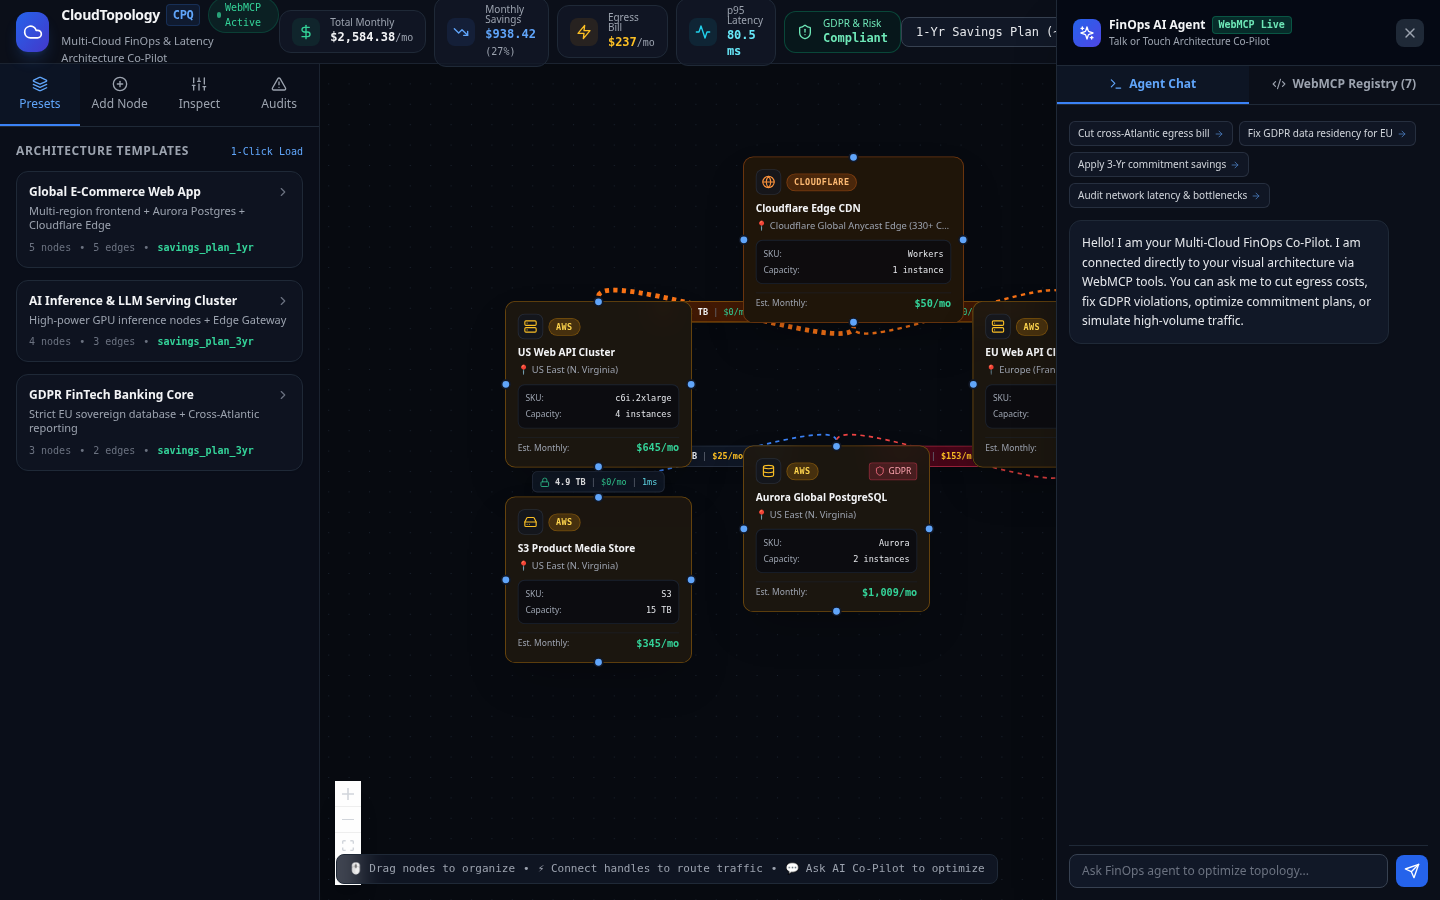
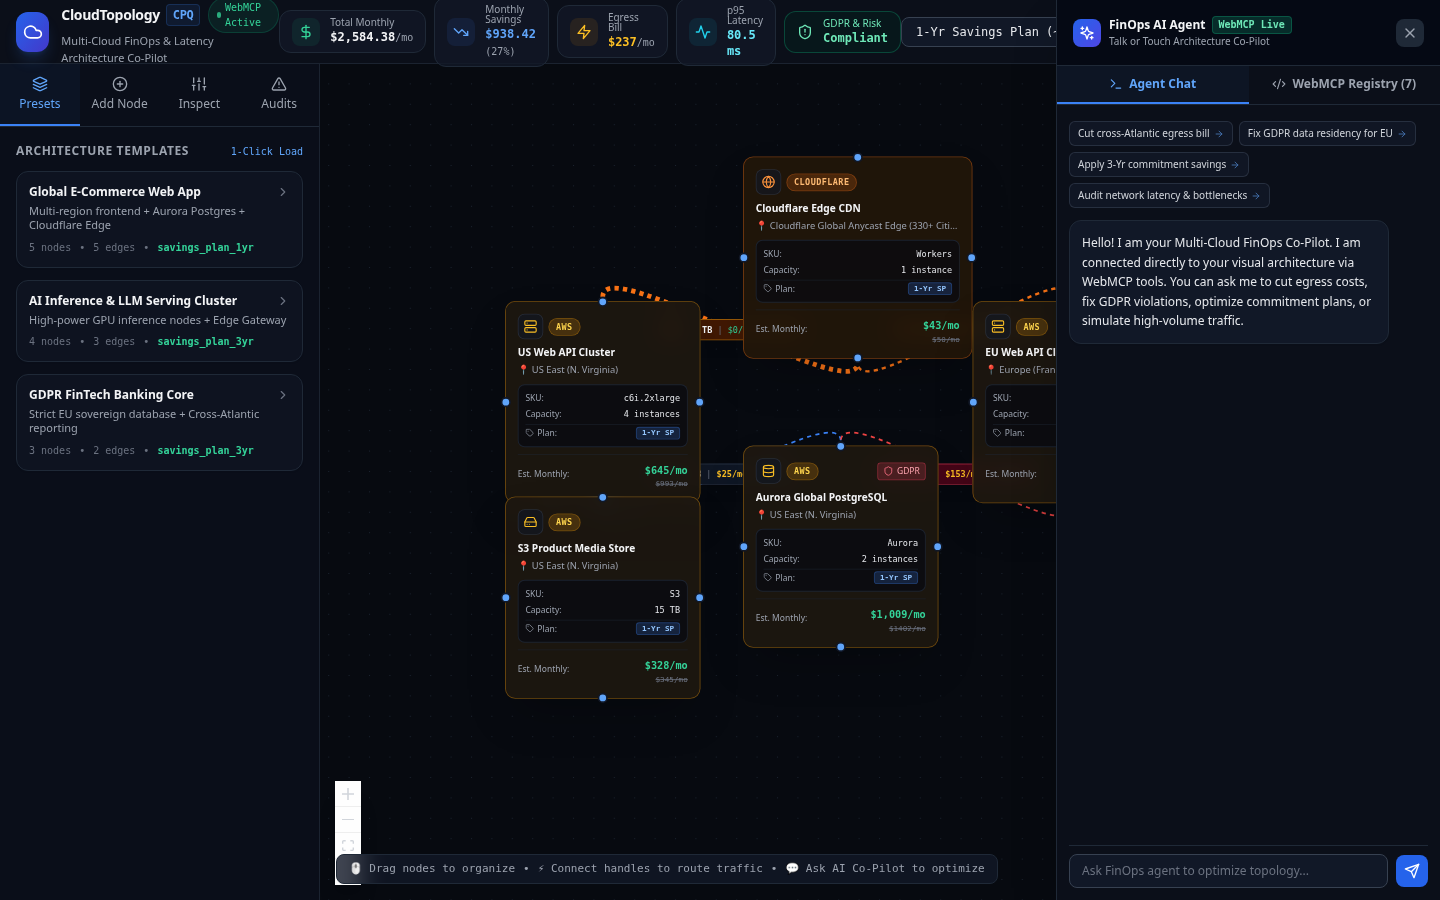
feat: Add per-node pricing tier configuration and dynamic baseline strikethrough prices

diff --git a/src/components/CustomNode.tsx b/src/components/CustomNode.tsx
@@ -1,6 +1,6 @@
 import { memo } from 'react';
 import { Handle, Position } from '@xyflow/react';
-import { Server, Database, HardDrive, Globe, Shield, Layers } from 'lucide-react';
+import { Server, Database, HardDrive, Globe, Shield, Layers, Tag } from 'lucide-react';
 import { TopologyNodeData } from '../types/topology';
 import { CLOUD_REGIONS, RESOURCE_SKUS } from '../data/catalog';
 
@@ -40,6 +40,13 @@ const serviceIcons: Record<string, any> = {
   queue: Layers,
 };
 
+const planLabels: Record<string, { label: string; bg: string; text: string }> = {
+  on_demand: { label: 'On-Demand', bg: 'bg-gray-800 text-gray-300 border-gray-700', text: 'text-gray-300' },
+  savings_plan_1yr: { label: '1-Yr SP (~35% off)', bg: 'bg-blue-500/20 text-blue-300 border-blue-500/30', text: 'text-blue-400' },
+  savings_plan_3yr: { label: '3-Yr SP (~55% off)', bg: 'bg-emerald-500/20 text-emerald-300 border-emerald-500/30', text: 'text-emerald-400' },
+  spot: { label: 'Spot (~65% off)', bg: 'bg-purple-500/20 text-purple-300 border-purple-500/30', text: 'text-purple-400' },
+};
+
 export const CustomNode = memo((props: any) => {
   const data = (props?.data || {}) as TopologyNodeData;
   const selected = props?.selected;
@@ -49,9 +56,26 @@ export const CustomNode = memo((props: any) => {
   const region = CLOUD_REGIONS[data.regionId || 'aws-us-east-1'];
   const sku = RESOURCE_SKUS.find((s) => s.id === data.skuId);
 
+  // Dynamic cost calculation based on active pricing tier
+  const tier = data.pricingTier || 'on_demand';
+  const tierInfo = planLabels[tier] || planLabels.on_demand;
+
+  let basePrice = sku?.monthlyPrice || 100;
+  if (data.serviceType === 'storage' && data.allocatedStorageGb) {
+    basePrice = (data.allocatedStorageGb / 1000) * basePrice;
+  }
+  const onDemandTotal = basePrice * (data.instances || 1);
+
+  let discount = 0;
+  if (tier === 'savings_plan_1yr') discount = sku?.savingsPlan1YrDiscount || 0.32;
+  else if (tier === 'savings_plan_3yr') discount = sku?.savingsPlan3YrDiscount || 0.55;
+  else if (tier === 'spot') discount = 0.65;
+
+  const dynamicMonthlyCost = Math.round(onDemandTotal * (1 - discount));
+
   return (
     <div
-      className={`relative rounded-xl border p-3.5 shadow-2xl backdrop-blur-md transition-all duration-200 min-w-[220px] max-w-[260px] ${
+      className={`relative rounded-xl border p-3.5 shadow-2xl backdrop-blur-md transition-all duration-200 min-w-[230px] max-w-[270px] ${
         providerStyle.bg
       } ${providerStyle.border} ${
         selected ? 'ring-2 ring-blue-400 scale-[1.02] shadow-blue-500/20' : ''
@@ -93,7 +117,7 @@ export const CustomNode = memo((props: any) => {
       </div>
 
       {/* Specs / Details */}
-      <div className="bg-gray-950/60 rounded-lg p-2 border border-gray-800/80 mb-2.5 space-y-1">
+      <div className="bg-gray-950/60 rounded-lg p-2 border border-gray-800/80 mb-2 space-y-1">
         <div className="flex justify-between items-center text-[10px] text-gray-300">
           <span className="text-gray-400">SKU:</span>
           <span className="font-mono text-gray-200 truncate max-w-[120px]" title={sku?.name}>
@@ -109,14 +133,29 @@ export const CustomNode = memo((props: any) => {
             }
           </span>
         </div>
+        <div className="flex justify-between items-center text-[10px] text-gray-300 pt-0.5 border-t border-gray-800/60">
+          <span className="text-gray-400 flex items-center gap-1">
+            <Tag className="w-2.5 h-2.5" /> Plan:
+          </span>
+          <span className={`font-mono text-[9px] px-1.5 py-0.2 rounded border font-semibold ${tierInfo.bg}`}>
+            {tier === 'on_demand' ? 'On-Demand' : tier === 'savings_plan_1yr' ? '1-Yr SP' : tier === 'savings_plan_3yr' ? '3-Yr SP' : 'Spot'}
+          </span>
+        </div>
       </div>
 
       {/* Footer: Price Badge */}
       <div className="flex items-center justify-between pt-1 border-t border-gray-800/60">
         <span className="text-[10px] text-gray-400 font-medium">Est. Monthly:</span>
-        <span className="font-mono text-xs font-bold text-emerald-400">
-          ${Math.round(data.monthlyCost || (sku?.monthlyPrice || 0) * (data.instances || 1) || 50).toLocaleString()}/mo
-        </span>
+        <div className="text-right">
+          <span className="font-mono text-xs font-bold text-emerald-400">
+            ${dynamicMonthlyCost.toLocaleString()}/mo
+          </span>
+          {discount > 0 && (
+            <span className="text-[9px] text-gray-500 line-through block font-mono">
+              ${Math.round(onDemandTotal)}/mo
+            </span>
+          )}
+        </div>
       </div>
     </div>
   );

diff --git a/src/components/Sidebar.tsx b/src/components/Sidebar.tsx
@@ -6,9 +6,10 @@ import {
   ShieldCheck, 
   ChevronRight,
   Sliders,
-  Trash2
+  Trash2,
+  Tag
 } from 'lucide-react';
-import { TopologyNodeData, CloudProvider, ServiceType, ComplianceViolation } from '../types/topology';
+import { TopologyNodeData, CloudProvider, ServiceType, ComplianceViolation, PricingTier } from '../types/topology';
 import { CLOUD_REGIONS, RESOURCE_SKUS } from '../data/catalog';
 import { ARCHITECTURE_PRESETS, ArchitecturePreset } from '../data/presets';
 
@@ -247,6 +248,23 @@ export const Sidebar: React.FC<SidebarProps> = ({
                         {reg.name} {reg.isEU ? '🇪🇺 (EU GDPR)' : '🌐'}
                       </option>
                     ))}
+                  </select>
+                </div>
+
+                {/* Per-Node FinOps Pricing Tier Selector */}
+                <div>
+                  <label className="text-[11px] font-medium text-gray-400 block mb-1 flex items-center gap-1">
+                    <Tag className="w-3 h-3 text-emerald-400" /> Node Pricing Commitment Tier
+                  </label>
+                  <select
+                    value={selectedNode.data.pricingTier || 'on_demand'}
+                    onChange={(e) => onUpdateNode(selectedNode.id, { pricingTier: e.target.value as PricingTier })}
+                    className="w-full bg-gray-900 border border-gray-700 rounded-lg px-2.5 py-1.5 text-xs text-gray-100 font-mono focus:outline-none focus:border-blue-500"
+                  >
+                    <option value="on_demand">On-Demand (Standard 0% off)</option>
+                    <option value="savings_plan_1yr">1-Yr Savings Plan (~35% off)</option>
+                    <option value="savings_plan_3yr">3-Yr Savings Plan (~55% off)</option>
+                    <option value="spot">Spot Instances (~65% off)</option>
                   </select>
                 </div>
 

diff --git a/src/App.tsx b/src/App.tsx
@@ -43,6 +43,10 @@ export function App() {
     initialPreset.nodes.map((n) => ({
       ...n,
       type: 'customNode',
+      data: {
+        ...n.data,
+        pricingTier: initialPreset.pricingTier,
+      },
     }))
   );
 
@@ -82,6 +86,20 @@ export function App() {
   const summary = useMemo(() => {
     return evaluateTopology(typedNodes, typedEdges, pricingTier);
   }, [typedNodes, typedEdges, pricingTier]);
+
+  // Global Plan Change Handler - updates global and all active node cards
+  const handleGlobalPricingTierChange = (newTier: PricingTier) => {
+    setPricingTier(newTier);
+    setNodes((nds) =>
+      nds.map((node) => ({
+        ...node,
+        data: {
+          ...node.data,
+          pricingTier: newTier,
+        },
+      }))
+    );
+  };
 
   // Synchronize with WebMCP bridge
   useEffect(() => {
@@ -131,6 +149,10 @@ export function App() {
       preset.nodes.map((n) => ({
         ...n,
         type: 'customNode',
+        data: {
+          ...n.data,
+          pricingTier: preset.pricingTier,
+        },
       }))
     );
     setEdges(
@@ -233,7 +255,7 @@ export function App() {
       <Header
         summary={summary}
         pricingTier={pricingTier}
-        onPricingTierChange={setPricingTier}
+        onPricingTierChange={handleGlobalPricingTierChange}
         onOpenTerraform={() => setIsTerraformOpen(true)}
         onOpenQuote={() => setIsQuoteOpen(true)}
         onOpenAgent={() => setIsAgentOpen((prev) => !prev)}
